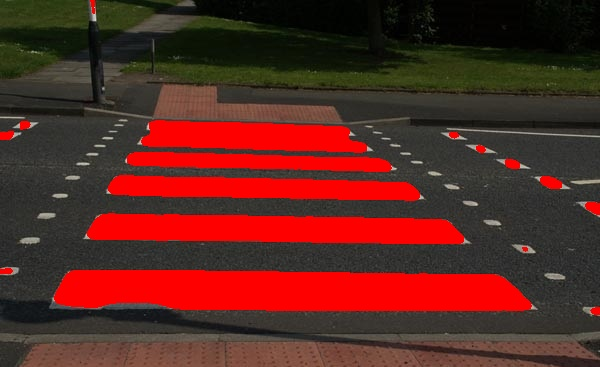
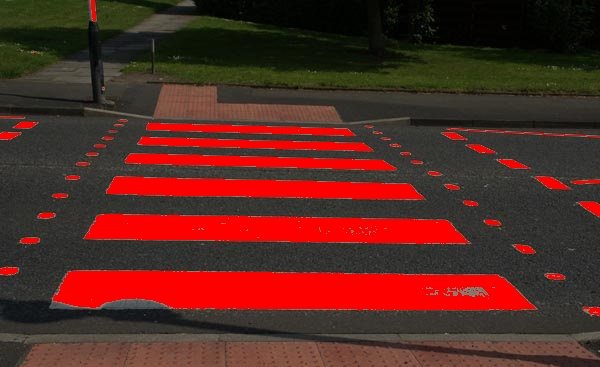
cleaning up

diff --git a/crosswalk.py b/crosswalk.py
@@ -5,13 +5,15 @@ import numpy as np
 class Beadando:
     def __init__(self):
         self.img = cv2.imread("crosswalk.jpg")
-        self.gray = cv2.cvtColor(self.img, cv2.COLOR_BGR2GRAY)
+        self.img_lab = cv2.cvtColor(self.img, cv2.COLOR_BGR2Lab)
+
         self.blurred = None
         self.threshed = None
         self.edged = None
         self.img_np_edge = None
         self.colored = None
         self.im_thresh = None
+        self.max_vals = None
 
         self.color_red = [0, 0, 255]
 
@@ -19,11 +21,21 @@ class Beadando:
         cv2.imshow("base", self.img)
 
     def blur(self):
-        self.blurred = cv2.GaussianBlur(self.gray, (15, 15), 6)
+        self.blurred = cv2.GaussianBlur(self.img_lab, (15, 15), 4)
         cv2.imshow("blured", self.blurred)
 
+    def split(self):
+        self.null, self.green, self.blue = cv2.split(self.img_lab)
+        # we can give it the blurred one too
+        lower = 90
+        upper = 255
+        self.null[self.null > upper] = upper
+        self.null[self.null < lower] = lower
+        self.max_vals = cv2.normalize(self.null, None, 0, 255, norm_type=cv2.NORM_MINMAX, dtype=cv2.CV_8UC1)
+        cv2.imshow("gr", self.max_vals)
+
     def thresh(self):
-        ret, self.threshed = cv2.threshold(self.blurred, 100, 255, cv2.THRESH_BINARY)
+        ret, self.threshed = cv2.threshold(self.max_vals, 100, 255, cv2.THRESH_BINARY)
 
     def segment(self):
         self.img_np_edge = np.ndarray(self.threshed.shape, self.threshed.dtype)
@@ -42,18 +54,17 @@ class Beadando:
     def run(self):
         self.base()
         self.blur()
+        self.split()
         self.thresh()
         self.segment()
         self.color(self.img_np_edge)
         self.save_img()
 
-        cv2.waitKey(0)
-
         while True:
             key = cv2.waitKey(1)
-            if key == 27:
+            if key == 27:  # q
                 break
-
+        cv2.waitKey(0)
         cv2.destroyAllWindows()
 
 
